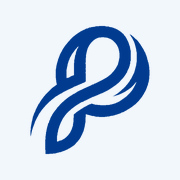
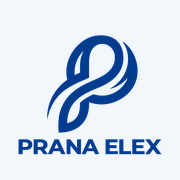
fix(brand): render from the PNG master and keep the wordmark
Two regressions from the previous commits, both visible on a phone.

The vector master was an incomplete trace. Its mark measures 717x772 where the
master PNG's is 990x884: the outer sweep on the right is simply absent, which
is the chunk missing from the splash and the launcher icon. The renderer was
faithful; the SVG was not. Drop it and render from prana-elex-logo.png, a
1254x1254 master with clean anti-aliased edges. A corrected vector can replace
it later.

Launcher icons, the splash and the iOS app icon go back to carrying the
wordmark. Switching them to the mark alone was a call about legibility at 48dp
that was not mine to make, and it dropped "PRANA ELEX" from the icon the owner
sees on the home screen.

Also detach the simulator launch in CI. --console-pty tied the app's lifetime
to a background process the runner reaps when the step ends, so the app could
die on its own and the job reported a crash that never happened. Launch plainly
and read the simulator's own log for diagnostics when the liveness check fails.

Changed region(s): [[0.0833, 0.1389, 0.8333, 0.8611], [0.5833, 0.75, 0.9167, 0.8611], [0.3611, 0.5278, 0.3889, 0.5556]]

diff --git a/tools/packaging/generate_brand_assets.py b/tools/packaging/generate_brand_assets.py
@@ -1,13 +1,14 @@
-"""Render every PRANA ELEX logo asset from the vector master.
+"""Render every PRANA ELEX logo asset from the brand master.
 
-The master is `tools/packaging/brand/prana-elex-logo.svg`: one even-odd path in
-a 1254x1254 viewBox, holding the mark above the "PRANA ELEX" wordmark. Assets
-are regenerated from it rather than resized from each other, so nothing is ever
-enlarged past the detail it actually carries.
+The master is `tools/packaging/brand/prana-elex-logo.png`, 1254x1254 with an
+alpha channel: the mark above the "PRANA ELEX" wordmark. Assets are rendered
+from it rather than resized from each other, so nothing is ever enlarged past
+the detail it carries.
 
-The mark alone is what launchers and splash screens get. The wordmark is
-illegible below roughly 128 px, so a lockup shrunk into a 48 px launcher icon
-reads as a smudge -- which is what the icons looked like before this script.
+A vector master would be better and was tried. The SVG supplied alongside this
+PNG is an incomplete trace: its mark measures 717x772 where the PNG's is
+990x884, losing the outer sweep on the right entirely. Replace this file the
+day a faithful vector exists, and drop the resampling here for a path renderer.
 
 Run from the repository root:
 
@@ -16,104 +17,63 @@ Run from the repository root:
 
 from __future__ import annotations
 
-import re
 import shutil
 from pathlib import Path
 
-from PIL import Image, ImageChops, ImageDraw
+from PIL import Image
 
 ROOT = Path(__file__).resolve().parents[2]
-MASTER = Path(__file__).resolve().parent / "brand" / "prana-elex-logo.svg"
+MASTER = Path(__file__).resolve().parent / "brand" / "prana-elex-logo.png"
 
-# Anti-aliasing comes from rendering this many times over and downsampling; the
-# path is polygonal, so nothing else smooths the curves.
-SUPERSAMPLE = 4
+# The master leaves a transparent band between the mark and the wordmark. The
+# mark's tail is thin enough to break into several bands above it, so the split
+# sits inside the last and widest one rather than the first found.
+WORDMARK_GAP = 1015
 
 # The canvas behind iOS icons. Apple rejects alpha in app icons, so they are
 # composited rather than left transparent like every other target.
 CANVAS = (242, 247, 252)
 
-Polygon = list[tuple[float, float]]
 
-
-def load_master() -> tuple[list[Polygon], list[Polygon]]:
-    """Return (mark subpaths, full lockup subpaths) from the vector master."""
-    svg = MASTER.read_text(encoding="utf-8")
-    data = re.search(r'\sd="([^"]+)"', svg).group(1)
-    if "C" in data or "Q" in data or "A" in data:
-        raise SystemExit("master gained curve commands; this renderer only walks lines")
-
-    subpaths: list[Polygon] = []
-    current: list[float] = []
-    for command, number in re.findall(r"([MLZ])|(-?\d+(?:\.\d+)?)", data):
-        if command:
-            if command in "MZ" and current:
-                subpaths.append(current)
-                current = []
-        else:
-            current.append(float(number))
-    if current:
-        subpaths.append(current)
-
-    polygons = [
-        [(flat[i], flat[i + 1]) for i in range(0, len(flat) - 1, 2)]
-        for flat in subpaths
-    ]
-    # The wordmark sits below the mark in the viewBox; split on that gap rather
-    # than on subpath indexes, so re-exporting the master cannot silently
-    # reorder them.
-    wordmark_top = 1000.0
-    mark = [p for p in polygons if min(y for _, y in p) < wordmark_top]
-    if not mark or len(mark) == len(polygons):
-        raise SystemExit("could not separate the mark from the wordmark")
-    return mark, polygons
+def load_master() -> tuple[Image.Image, Image.Image]:
+    """Return the mark and the full lockup, each trimmed to its own artwork."""
+    master = Image.open(MASTER).convert("RGBA")
+    lockup = master.crop(master.getchannel("A").getbbox())
+    above = master.crop((0, 0, master.width, WORDMARK_GAP))
+    mark = above.crop(above.getchannel("A").getbbox())
+    if mark.height >= lockup.height:
+        raise SystemExit("wordmark split failed; check WORDMARK_GAP against the master")
+    return mark, lockup
 
 
 def render(
-    polygons: list[Polygon],
+    artwork: Image.Image,
     width: int,
     height: int,
     *,
     content_width: float | None = None,
     content_height: float | None = None,
-    colour: tuple[int, int, int] = (0, 59, 143),
     background: tuple[int, int, int] | None = None,
 ) -> Image.Image:
-    """Draw the polygons centred on a transparent or filled canvas."""
-    xs = [x for polygon in polygons for x, _ in polygon]
-    ys = [y for polygon in polygons for _, y in polygon]
-    span_x, span_y = max(xs) - min(xs), max(ys) - min(ys)
-
+    """Fit the artwork on a canvas, centred, without distorting it."""
     if content_width is not None:
-        scale = content_width / span_x
+        scale = content_width / artwork.width
     elif content_height is not None:
-        scale = content_height / span_y
+        scale = content_height / artwork.height
     else:
-        scale = min(width / span_x, height / span_y)
+        scale = min(width / artwork.width, height / artwork.height)
 
-    big_w, big_h = width * SUPERSAMPLE, height * SUPERSAMPLE
-    scale *= SUPERSAMPLE
-    offset_x = (big_w - span_x * scale) / 2 - min(xs) * scale
-    offset_y = (big_h - span_y * scale) / 2 - min(ys) * scale
+    size = (max(1, round(artwork.width * scale)), max(1, round(artwork.height * scale)))
+    resized = artwork.resize(size, Image.LANCZOS)
+    offset = ((width - size[0]) // 2, (height - size[1]) // 2)
 
-    # even-odd fill: XOR each subpath so the holes in the mark stay open.
-    mask = Image.new("1", (big_w, big_h), 0)
-    for polygon in polygons:
-        layer = Image.new("1", (big_w, big_h), 0)
-        ImageDraw.Draw(layer).polygon(
-            [(x * scale + offset_x, y * scale + offset_y) for x, y in polygon],
-            fill=1,
-        )
-        mask = ImageChops.logical_xor(mask, layer)
-
-    alpha = mask.convert("L").resize((width, height), Image.LANCZOS)
     if background is None:
-        image = Image.new("RGBA", (width, height), colour + (0,))
-        image.putalpha(alpha)
-        return image
-    image = Image.new("RGB", (width, height), background)
-    image.paste(Image.new("RGB", (width, height), colour), mask=alpha)
-    return image
+        canvas = Image.new("RGBA", (width, height), (0, 0, 0, 0))
+        canvas.paste(resized, offset, resized)
+        return canvas
+    canvas = Image.new("RGB", (width, height), background)
+    canvas.paste(resized, offset, resized)
+    return canvas
 
 
 def write(image: Image.Image, relative: str) -> None:
@@ -125,12 +85,15 @@ def write(image: Image.Image, relative: str) -> None:
 
 def main() -> None:
     mark, lockup = load_master()
+    print(f"master: mark {mark.size}, lockup {lockup.size}")
 
     print("Flutter app")
-    # Canvas proportions and the share of it the artwork covers are kept from
-    # the assets these replace, so no screen shifts -- only the sharpness does.
-    app_mark = render(mark, 1024, 1024, content_height=1024 * 0.721)
-    write(app_mark, "apps/android/assets/logo_mark.png")
+    # Canvas proportions and the share of the canvas the artwork covers are
+    # carried over from the assets these replace, so no screen shifts.
+    write(
+        render(mark, 1024, 1024, content_height=1024 * 0.721),
+        "apps/android/assets/logo_mark.png",
+    )
     write(
         render(lockup, 1280, 920, content_height=920 * 0.90),
         "apps/android/assets/logo_lockup.png",
@@ -138,14 +101,14 @@ def main() -> None:
 
     print("Android launcher and splash")
     res = "apps/android/android/app/src/main/res"
-    # 252 of 432 keeps the mark inside the adaptive icon's safe zone.
-    write(render(mark, 432, 432, content_width=252), f"{res}/drawable/ic_launcher_foreground.png")
-    write(render(mark, 432, 432, content_width=252), f"{res}/drawable/splash_logo.png")
+    # 252 of 432 keeps the artwork inside the adaptive icon's safe zone.
+    write(render(lockup, 432, 432, content_width=252), f"{res}/drawable/ic_launcher_foreground.png")
+    write(render(lockup, 432, 432, content_width=252), f"{res}/drawable/splash_logo.png")
     for bucket, size in (
         ("mdpi", 48), ("hdpi", 72), ("xhdpi", 96), ("xxhdpi", 144), ("xxxhdpi", 192),
     ):
         write(
-            render(mark, size, size, content_width=round(size * 0.76)),
+            render(lockup, size, size, content_width=round(size * 0.76)),
             f"{res}/mipmap-{bucket}/ic_launcher.png",
         )
 
@@ -161,11 +124,13 @@ def main() -> None:
         ("Icon-App-1024x1024@1x", 1024),
     ):
         write(
-            render(mark, size, size, content_width=size * 0.66, background=CANVAS),
+            render(lockup, size, size, content_width=size * 0.80, background=CANVAS),
             f"{icons}/{name}.png",
         )
 
     print("Web Admin")
+    # The sidebar draws into 42px and the favicon into 32px, where the wordmark
+    # would be a smudge, so those two keep the mark alone.
     admin = ROOT / "services/prana_admin/static/logo_mark.png"
     admin.parent.mkdir(parents=True, exist_ok=True)
     shutil.copyfile(ROOT / "apps/android/assets/logo_mark.png", admin)
@@ -175,7 +140,7 @@ def main() -> None:
         "services/prana_admin/static/favicon-32.png",
     )
     write(
-        render(mark, 180, 180, content_width=180 * 0.66, background=CANVAS),
+        render(lockup, 180, 180, content_width=180 * 0.80, background=CANVAS),
         "services/prana_admin/static/apple-touch-icon.png",
     )
 

diff --git a/tests/packaging/test_mobile_android_config.py b/tests/packaging/test_mobile_android_config.py
@@ -57,15 +57,15 @@ def test_mobile_launcher_and_splash_render_the_mark_from_the_vector() -> None:
     assert '@drawable/ic_launcher_foreground' in adaptive_icon
     assert '@drawable/launch_background' in styles
     assert '@drawable/splash_logo' in android_12_styles
-    # Every asset is rendered from the vector master, never resized from a
-    # smaller raster.
-    assert "prana-elex-logo.svg" in generator
-    assert Path("tools/packaging/brand/prana-elex-logo.svg").is_file()
-    # Launcher and splash take the mark alone. The wordmark is illegible below
-    # roughly 128 px, so a lockup shrunk into a 48 px icon reads as a smudge.
-    assert 'render(mark, 432, 432, content_width=252)' in generator
-    assert 'f"{res}/mipmap-{bucket}/ic_launcher.png"' in generator
-    assert "render(lockup" not in generator[generator.index("Android launcher") :]
+    # Every asset is rendered from the brand master, never resized from a
+    # smaller raster or from another asset.
+    assert "prana-elex-logo.png" in generator
+    assert Path("tools/packaging/brand/prana-elex-logo.png").is_file()
+    # Launcher, splash and app icons carry the wordmark, not the mark alone.
+    launcher = generator[generator.index("Android launcher") :]
+    assert "render(lockup, 432, 432, content_width=252)" in launcher
+    assert 'f"{res}/mipmap-{bucket}/ic_launcher.png"' in launcher
+    assert "render(mark," not in launcher[: launcher.index("Web Admin")]
 
 
 def test_mobile_apk_build_wrapper_uses_flavor_config() -> None:
